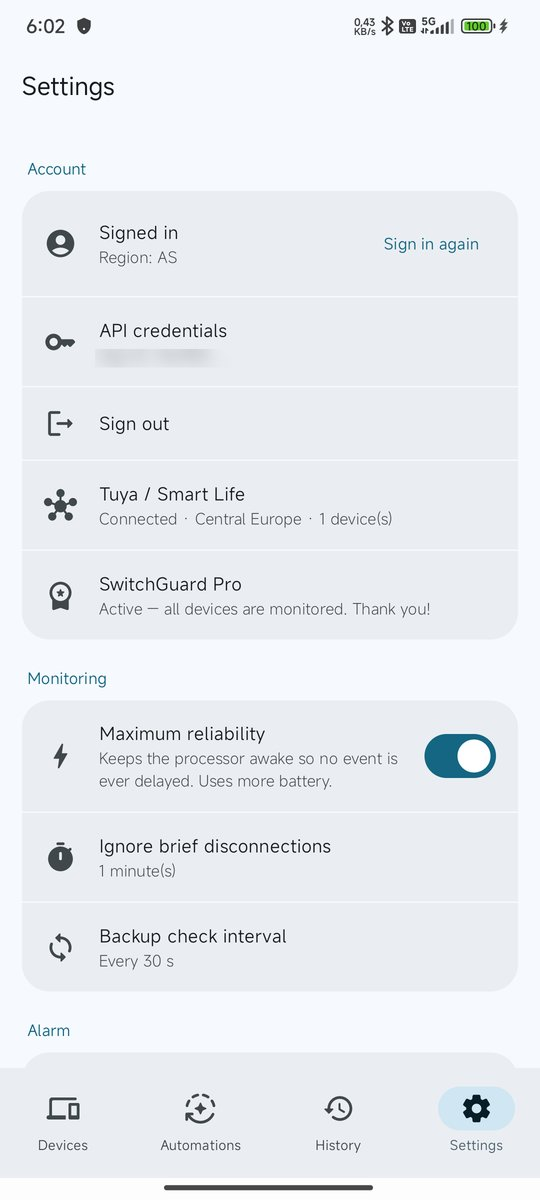
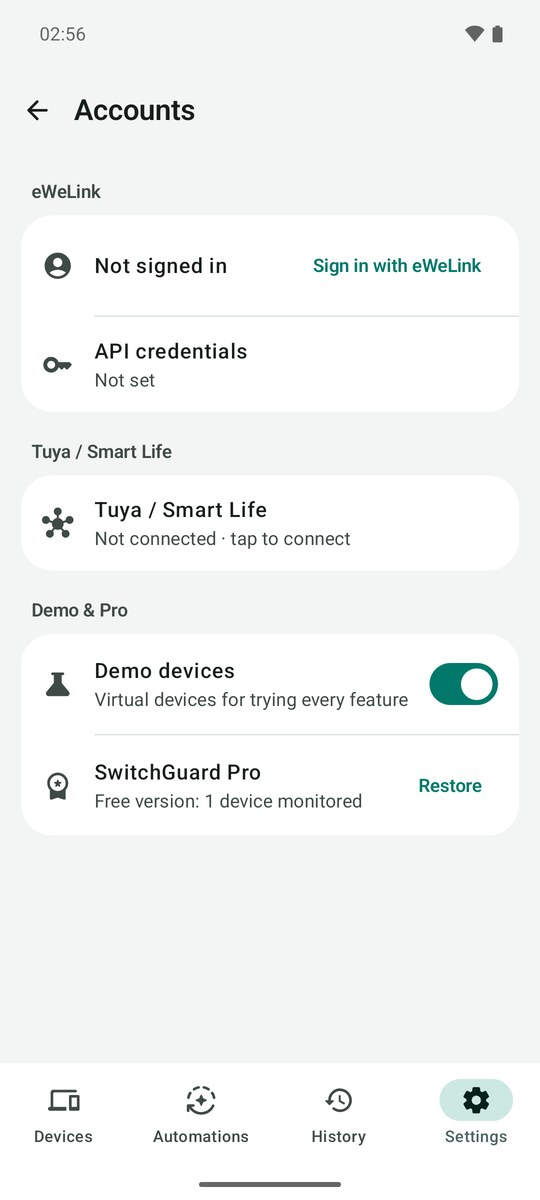
Guides: 2.12 settings paths, TV phone entry and transfer are available; Play status
- Settings > Accounts (API credentials, Tuya), Monitoring, Backup & transfer
- New Accounts screenshots (EN/TR) from 2.12.0
- Remove 'coming soon' notes for Android TV, transfer and TV alarm
- play-store.md: 2.12.0 (26) sent for review on 15 Oct 2026

diff --git a/docs/guide/ewelink.tr.md b/docs/guide/ewelink.tr.md
@@ -80,7 +80,7 @@ Yeni açılan eWeLink hesapları **geliştirici olarak kayıtlı gelmez**. Üst 
 
 > Bu iki bilgi bir şifre gibidir; kimseyle paylaşmayın.
 >
-> **Uygulamanın süresi 1 yıldır.** **Expiration Date** tarihinden önce geliştirici sitesinden yenileyin ya da yeni bir uygulama oluşturup SwitchGuard'daki App ID/Secret'ı güncelleyin (Ayarlar → Hesap → API bilgileri).
+> **Uygulamanın süresi 1 yıldır.** **Expiration Date** tarihinden önce geliştirici sitesinden yenileyin ya da yeni bir uygulama oluşturup SwitchGuard'daki App ID/Secret'ı güncelleyin (Ayarlar → Hesaplar → API bilgileri).
 
 ## 4. SwitchGuard'a girin
 
@@ -106,7 +106,7 @@ Bu adımdaki **dev.ewelink.cc'yi aç** düğmesi siteyi açar, **Redirect URL'yi
 
 **İleri** → izinleri verin (bildirim, arka planda çalışma) → **İzlemeyi başlat**.
 
-**Sonradan değiştirmek için:** **Ayarlar → Hesap → API bilgileri** (App ID/Secret) ve **Yeniden giriş yap**.
+**Sonradan değiştirmek için:** **Ayarlar → Hesaplar → API bilgileri** (App ID/Secret) ve **Yeniden giriş yap**.
 
 ![Ayarlar – hesaplar](img/app-tr-settings-accounts.jpg)
 
@@ -114,15 +114,14 @@ Bu adımdaki **dev.ewelink.cc'yi aç** düğmesi siteyi açar, **Redirect URL'yi
 
 ## Birden fazla cihazda kullanım (telefon, tablet, Android TV)
 
-> **Android TV desteği ve "Başka cihaza aktar" yakında** bir güncellemeyle gelecek. Aşağıdaki hesap kuralı telefon ve tablet için bugün de geçerlidir.
-
 - **Her cihaz için ayrı bir eWeLink hesabı gerekir. O hesapta geliştirici özelliği açılmalı (eWeLink onayı) ve o cihaza, o hesabın kendi API anahtarları (App ID ve App Secret) girilmelidir.** Cihaza girilen API anahtarları, o cihazda giriş yapılan eWeLink hesabına ait olmalıdır.
 - eWeLink, aynı hesapla yalnızca **bir** cihazda oturum açılmasına izin verir. Aynı hesapla ikinci bir cihazda giriş yaparsanız ilk cihazın oturumu kapanır (SwitchGuard bunu yüksek sesli bir uyarıyla bildirir).
 - Her ek cihaz için: 1) **eWeLink uygulamasından** yeni bir hesap açın (eWeLink'in giriş sayfasında kayıt seçeneği yoktur), 2) cihazlarınızı eWeLink uygulamasında **cihaz → Paylaş** ile o hesapla paylaşın, 3) o hesapla dev.ewelink.cc'de [geliştirici başvurusu](#hesabınız-henüz-geliştirici-değilse-yeni-hesaplar) yapıp onay bekleyin, 4) onaydan sonra o hesapta uygulama oluşturup App ID ve App Secret'ı alın ve o cihaza girin.
-- **Kurulumu aktarma (yakında):** Telefonda **Ayarlar → Başka cihaza aktar**, TV/tablette **Başka bir cihazdan aktar**. İki cihaz aynı Wi-Fi'da olmalı; TV'de görünen 6 haneli kodu telefona girersiniz. Tuya bilgileri, kurallar, otomasyonlar ve ayarlar ev ağınız içinde, kodla şifrelenerek aktarılır. eWeLink API anahtarları ve oturumu aktarılmaz — her cihaz kendi hesabının anahtarlarını kullanır.
+- **Kurulumu aktarma:** Telefonda **Ayarlar → Yedekleme ve aktarım → Başka cihaza aktar**, TV/tablette kurulum sırasında **Başka bir cihazdan aktar** ya da **Ayarlar → Yedekleme ve aktarım → Başka cihazdan al**. İki cihaz aynı Wi-Fi'da olmalı; TV'de görünen 6 haneli kodu telefona girersiniz. Tuya bilgileri, kurallar, otomasyonlar ve ayarlar ev ağınız içinde, kodla şifrelenerek aktarılır. eWeLink API anahtarları ve oturumu aktarılmaz — her cihaz kendi hesabının anahtarlarını kullanır.
 - **TV'de giriş:** en kolayı, eWeLink giriş sayfasının altındaki **Login by QR code** seçeneğidir — QR kodu, o cihaz için açtığınız hesapla giriş yapılmış eWeLink uygulamasıyla okutun. Kumandayla da giriş yapılabilir; telefonunuzdaki Google TV uygulamasının klavyesiyle yazmak daha kolaydır.
 - **SwitchGuard Pro** bir kez satın alınır ve aynı Google hesabıyla tüm cihazlarınızda (telefon, tablet, TV) geçerlidir.
-- **Android TV'de alarm (yakında):** alarm, o an açık olan her şeyin (YouTube, kanal…) üstüne tam ekran çıkar ve kumandanın OK tuşuyla susturulur.
+- **TV'de uzun anahtarları yazmak:** API bilgileri penceresinde **Telefondan gir**'e basın, QR kodu telefonla okutun ve anahtarları telefonda yazın; ev Wi-Fi'ınız üzerinden şifreli olarak TV'ye gider.
+- **Android TV'de alarm:** alarm, o an açık olan her şeyin (YouTube, kanal…) üstüne tam ekran çıkar ve kumandanın OK tuşuyla susturulur.
 
 ## Sorun giderme
 
@@ -131,7 +130,7 @@ Bu adımdaki **dev.ewelink.cc'yi aç** düğmesi siteyi açar, **Redirect URL'yi
 | Giriş sayfası "redirect" / "invalid" hatası veriyor | Redirect URL iki tarafta **birebir** aynı mı? (`https://127.0.0.1`, sonda `/` yok, `http` değil `https`.) |
 | Giriş başarılı ama cihaz yok | Geliştirici sitesine ve SwitchGuard'a **cihazların bulunduğu hesapla** mı girdiniz? Bölge doğru mu? |
 | Başka bir telefonda aynı hesapla giriş yapınca ilk telefon çıkış yapıyor ("İzleme durdu — oturum kapandı" uyarısı) | eWeLink her hesap için tek oturuma izin verir. İkinci telefon için **ayrı bir eWeLink hesabı** açın ve cihazları eWeLink uygulamasından o hesapla **paylaşın**. |
-| Durum kartı **"İzleniyor (periyodik)"** kalıyor | Bazı App ID'lerde anlık bağlantı kapalı olabilir; SwitchGuard bu durumda düzenli kontrolle izlemeye devam eder. Ayarlar'daki **Yedek kontrol aralığı** ile sıklığı ayarlayabilirsiniz. |
+| Durum kartı **"İzleniyor (periyodik)"** kalıyor | Bazı App ID'lerde anlık bağlantı kapalı olabilir; SwitchGuard bu durumda düzenli kontrolle izlemeye devam eder. **Ayarlar → İzleme → Yedek kontrol aralığı** ile sıklığı ayarlayabilirsiniz. |
 
 ---
 

diff --git a/docs/guide/ewelink.en.md b/docs/guide/ewelink.en.md
@@ -80,7 +80,7 @@ New eWeLink accounts **are not registered as developers**. On **My center → Ac
 
 > Treat these two like a password; don't share them.
 >
-> **The app is valid for 1 year.** Before its **Expiration Date**, renew it on the developer site or create a new one and update the App ID/Secret in SwitchGuard (Settings → Account → API credentials).
+> **The app is valid for 1 year.** Before its **Expiration Date**, renew it on the developer site or create a new one and update the App ID/Secret in SwitchGuard (Settings → Accounts → API credentials).
 
 ## 4. Enter them in SwitchGuard
 
@@ -106,7 +106,7 @@ New eWeLink accounts **are not registered as developers**. On **My center → Ac
 
 **Next** → grant permissions (notifications, background activity) → **Start monitoring**.
 
-**To change later:** **Settings → Account → API credentials** (App ID/Secret) and **Sign in again**.
+**To change later:** **Settings → Accounts → API credentials** (App ID/Secret) and **Sign in again**.
 
 ![Settings – accounts](img/app-en-settings-accounts.jpg)
 
@@ -114,15 +114,14 @@ New eWeLink accounts **are not registered as developers**. On **My center → Ac
 
 ## Using several devices (phone, tablet, Android TV)
 
-> **Android TV support and "Send to another device" are coming** in an update. The account rule below already applies to phones and tablets.
-
 - **Each device needs its own eWeLink account. That account must have the developer feature enabled (approved by eWeLink), and the device gets that account's own API keys (App ID and App Secret).** The API keys entered on a device must belong to the eWeLink account signed in on that device.
 - eWeLink allows a signed-in session on only **one** device per account. Signing in on a second device with the same account signs the first one out (SwitchGuard warns you loudly when that happens).
 - For each extra device: 1) create a new account **in the eWeLink app** (eWeLink's sign-in page has no sign-up), 2) share your devices with it in the eWeLink app (**device → Share**), 3) with that account, [apply as a developer](#if-your-account-isnt-a-developer-yet-new-accounts) on dev.ewelink.cc and wait for approval, 4) after approval create an app in that account and enter its App ID and App Secret on that device.
-- **Transferring the setup (coming soon):** on the phone **Settings → Send to another device**, on the TV/tablet **Transfer from another device**. Both must be on the same Wi-Fi; enter the 6-digit code shown on the TV. Tuya keys, rules, automations and settings are sent inside your home network, encrypted with the code. eWeLink API keys and the session are not transferred — each device uses its own account's keys.
+- **Transferring the setup:** on the phone **Settings → Backup & transfer → Send to another device**, on the TV/tablet **Transfer from another device** (during setup) or **Settings → Backup & transfer → Receive from another device**. Both must be on the same Wi-Fi; enter the 6-digit code shown on the TV. Tuya keys, rules, automations and settings are sent inside your home network, encrypted with the code. eWeLink API keys and the session are not transferred — each device uses its own account's keys.
 - **Signing in on a TV:** easiest is **Login by QR code** at the bottom of eWeLink's sign-in page — scan it with the eWeLink app signed in to the account you created for that device. The remote works too; the keyboard in the Google TV app on your phone is easier.
 - **SwitchGuard Pro** is bought once and works on all your devices (phone, tablet, TV) with the same Google account.
-- **Alarm on Android TV (coming soon):** the alarm appears full screen on top of whatever is playing (YouTube, TV…) and is dismissed with the remote's OK button.
+- **Typing long keys on a TV:** in the API credentials window tap **Enter from phone**, scan the QR code with your phone and type the keys there; they are sent to the TV encrypted over your Wi-Fi.
+- **Alarm on Android TV:** the alarm appears full screen on top of whatever is playing (YouTube, TV…) and is dismissed with the remote's OK button.
 
 ## Troubleshooting
 
@@ -131,7 +130,7 @@ New eWeLink accounts **are not registered as developers**. On **My center → Ac
 | The sign-in page shows a "redirect" / "invalid" error | Is the Redirect URL **exactly** the same on both sides? (`https://127.0.0.1`, no trailing `/`, `https` not `http`.) |
 | Signed in but no devices | Did you sign in to the developer site and SwitchGuard with **the account your devices are in**? Is the region right? |
 | Signing in on another phone signs the first one out ("Monitoring stopped — signed out" warning) | eWeLink allows one session per account. Give the second phone **its own eWeLink account** and **share** the devices to it from the eWeLink app. |
-| Status card stays **"Monitoring (periodic)"** | Live connection may be unavailable for some App IDs; SwitchGuard keeps watching with regular checks. Adjust the frequency in Settings → **Backup check interval**. |
+| Status card stays **"Monitoring (periodic)"** | Live connection may be unavailable for some App IDs; SwitchGuard keeps watching with regular checks. Adjust the frequency in **Settings → Monitoring → Backup check interval**. |
 
 ---
 

diff --git a/docs/guide/tuya.en.md b/docs/guide/tuya.en.md
@@ -99,7 +99,7 @@ Without this step SwitchGuard still works, but only sees changes **every few min
 
 **During first setup:** at **Where are your devices?** choose **Tuya / Smart Life** → **Next** → guide → **Next** → **Enter Access ID and Secret**.
 
-**To add later:** **Settings → Account → Tuya / Smart Life**.
+**To add later:** **Settings → Accounts → Tuya / Smart Life**.
 
 | Choose Tuya in setup | Connect step | Enter the keys |
 |---|---|---|
@@ -115,11 +115,10 @@ Your devices now appear on the **Devices** screen, in the same list as eWeLink d
 
 ## Using several devices (phone, tablet, Android TV)
 
-> **Android TV support and "Send to another device" are coming** in an update.
-
 - Tuya has no sign-in session: **the same Access ID and Access Secret work on every device**, and all of them see the same devices.
 - Tuya delivers live messages for a project to only **one** device; the others poll every few minutes. If you want instant alarms on every device, create a separate Tuya project per device (a Smart Life account can be linked to at most 2 projects). An always-on TV box is a good choice for the device that gets live messages.
-- **Transferring the setup (coming soon):** on the phone **Settings → Send to another device**, on the TV/tablet **Transfer from another device** — Tuya works right after the transfer.
+- **Transferring the setup:** on the phone **Settings → Backup & transfer → Send to another device**, on the TV/tablet **Transfer from another device** (during setup) or **Settings → Backup & transfer → Receive from another device** — Tuya works right after the transfer.
+- **Typing the keys on a TV:** in the Tuya window tap **Enter from phone**, scan the QR code and type the Access ID and Secret on your phone.
 - If you also use eWeLink: **each device needs its own eWeLink account and that account's own API keys** (details in the [eWeLink guide](ewelink.en.md#using-several-devices-phone-tablet-android-tv)).
 - **SwitchGuard Pro** is bought once and works on all your devices with the same Google account.
 

diff --git a/docs/play-store.md b/docs/play-store.md
@@ -120,7 +120,8 @@ Uygulama giriş gerektirdiği için "Tüm işlevler veya bazı işlevler kısıt
 - [ ] İnceleme eWeLink hesabı + bir cihaz paylaşımı (yukarıdaki talimat)
 - [ ] Uygulama oluştur → formlar (bölüm 4) → mağaza girişi (bölüm 3, 5)
 - [x] Kapalı test: 2.8.0 (17), "Testers" e-posta listesi (15 kişi), geri bildirim switchguardapp@gmail.com — 3 Ekim 2026'da incelemeye gönderildi
-- [ ] Google onayı → testçiler katılım linkine girsin (https://play.google.com/apps/testing/com.macerce.switchguard) → 12+ kişiyle 14 gün
+- [x] Google onayı: kapalı test 3 Ekim 2026'da yayına girdi; testçiler katılım linkinden katılıyor (https://play.google.com/apps/testing/com.macerce.switchguard)
+- [x] Alpha sürümleri: 2.10.1 (23) 13 Ekim, 2.11.0 (25) + Android TV 14 Ekim yayında; 2.12.0 (26) 15 Ekim 2026'da incelemeye gönderildi
 - [ ] Üretim erişimi başvurusu → üretim sürümü
 
 ## 4c. Uygulama içi ürün (Pro)
